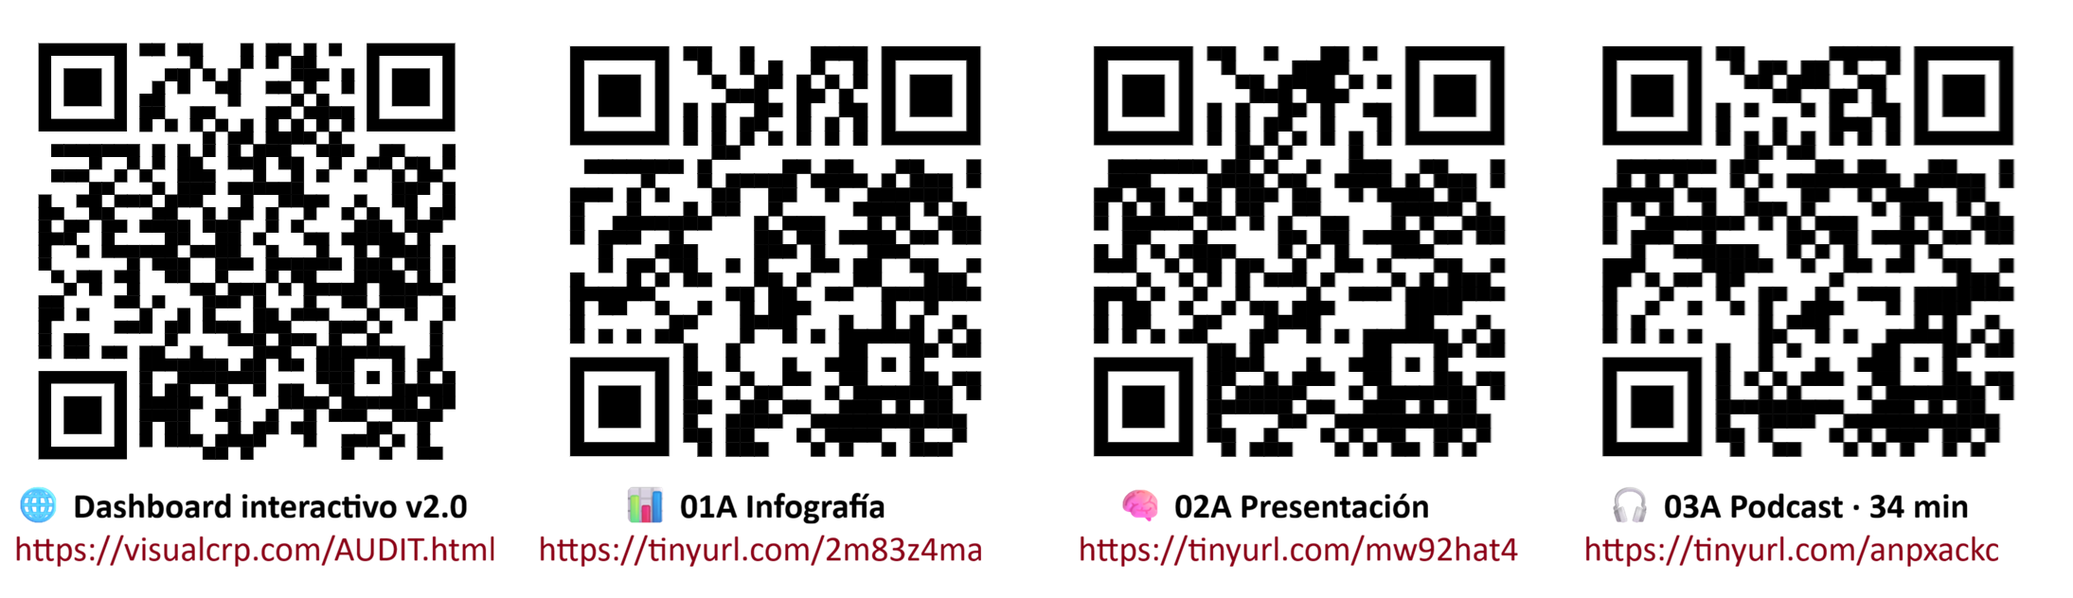
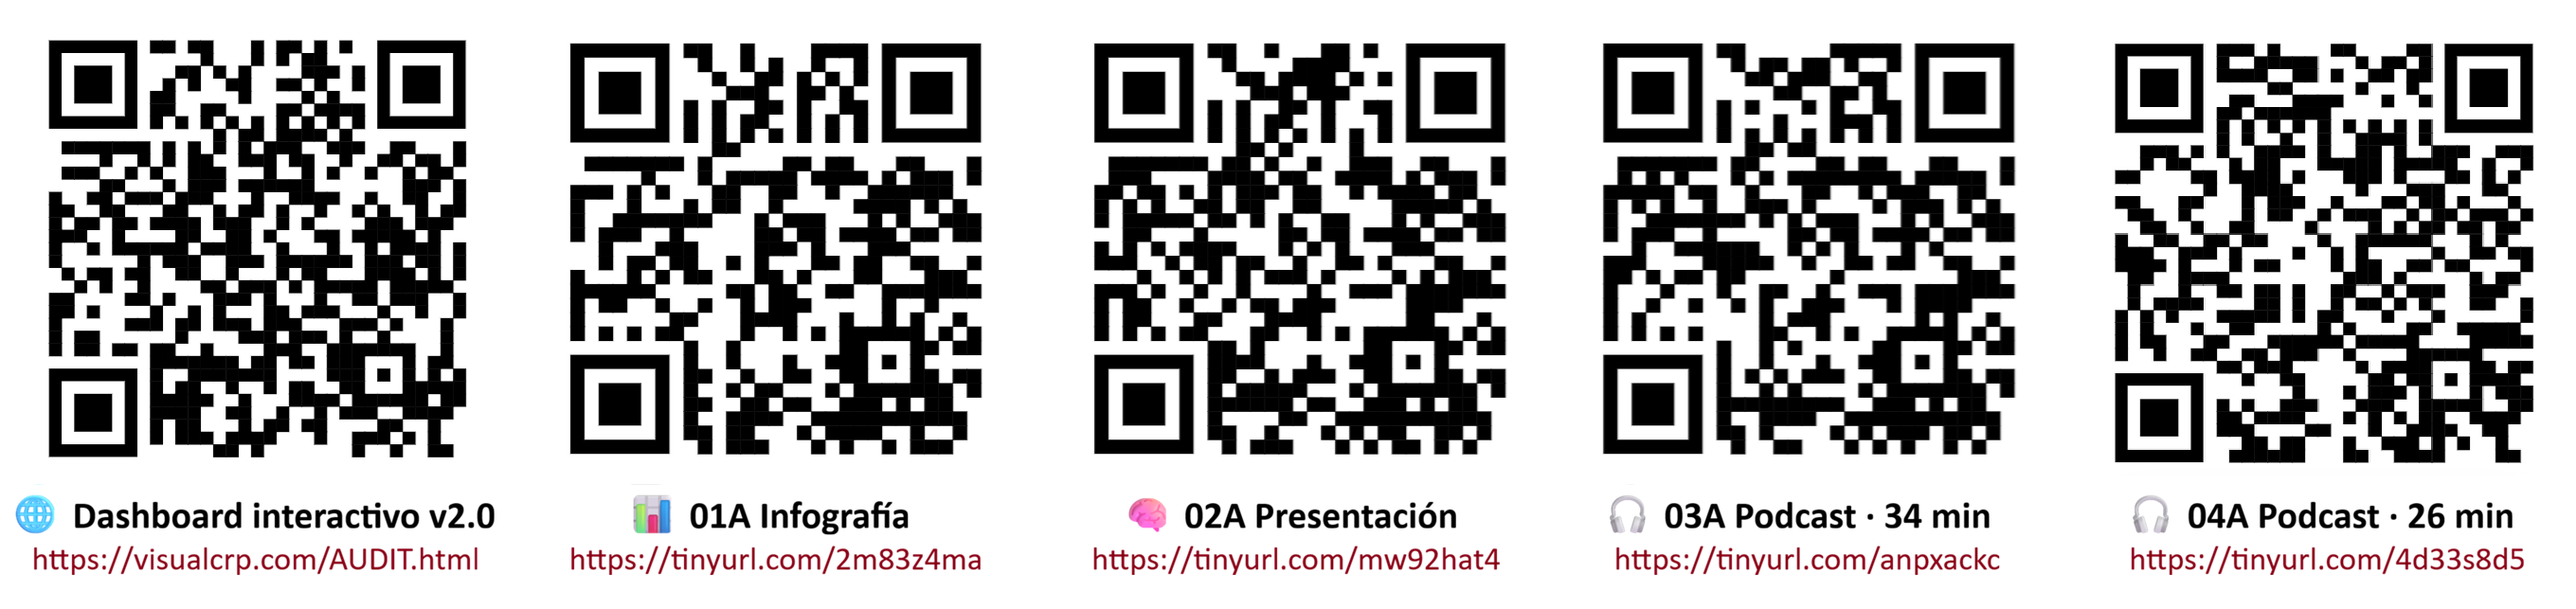
Add files via upload

diff --git a/AUDIT.html b/AUDIT.html
@@ -879,17 +879,26 @@ html.dark small           { color: #6a7a9a; }
     <div class="sources-title"><span class="es">Acceso directo al ecosistema</span><span class="en">Direct access to the ecosystem</span></div>
     <div class="sources-subtitle"><span class="es">Escanea el código QR o haz clic en los enlaces para acceder a los productos de la auditoría.</span><span class="en">Scan the QR code or click the links to access the audit products.</span></div>
 
-    <!-- Imagen QR única con los 4 códigos -->
+    <!-- Imagen QR con los 4 códigos activos -->
     <div style="text-align:center; margin:16px 0;">
       <img src="QR.png" alt="QR - Dashboard, Infografía, Presentación y Podcast" style="max-width:100%; height:auto; max-height:300px; border:1px solid var(--rule); border-radius:8px;"/>
     </div>
 
-    <!-- Enlaces directos (con iconos) -->
+    <!-- 6 artefactos en 3 pares: Infografías · Presentaciones · Podcasts -->
     <ul class="sources-list" style="margin-top:12px;">
       <li><strong>🌐</strong> <a href="https://visualcrp.com/AUDIT.html" target="_blank">Dashboard interactivo v2.0</a></li>
-      <li><strong>📊</strong> <a href="https://tinyurl.com/2m83z4ma" target="_blank">01A Infografía</a></li>
-      <li><strong>🧠</strong> <a href="https://tinyurl.com/mw92hat4" target="_blank">02A Presentación</a></li>
-      <li><strong>🎧</strong> <a href="https://tinyurl.com/anpxackc" target="_blank">03A Podcast · 34 min</a></li>
+
+      <!-- Infografías -->
+      <li><strong>📊</strong> <a href="https://tinyurl.com/2m83z4ma" target="_blank">01A <span class="es">Infografía</span><span class="en">Infographic</span></a></li>
+      <li><strong>📊</strong> <span style="color:var(--muted);">01B <span class="es">Infografía v2</span><span class="en">Infographic v2</span> &nbsp;<span style="font-size:.72rem; background:var(--gold); color:var(--bg); padding:1px 7px; border-radius:3px; font-weight:600; letter-spacing:.04em;"><span class="es">Próximamente</span><span class="en">Coming soon</span></span></span></li>
+
+      <!-- Presentaciones -->
+      <li><strong>🧠</strong> <a href="https://tinyurl.com/mw92hat4" target="_blank">02A <span class="es">Presentación PDF</span><span class="en">PDF Presentation</span></a></li>
+      <li><strong>🧠</strong> <span style="color:var(--muted);">02B <span class="es">Presentación PDF v2</span><span class="en">PDF Presentation v2</span> &nbsp;<span style="font-size:.72rem; background:var(--gold); color:var(--bg); padding:1px 7px; border-radius:3px; font-weight:600; letter-spacing:.04em;"><span class="es">Próximamente</span><span class="en">Coming soon</span></span></span></li>
+
+      <!-- Podcasts -->
+      <li><strong>🎧</strong> <a href="https://tinyurl.com/anpxackc" target="_blank">03A <span class="es">Podcast · 34 min</span><span class="en">Podcast · 34 min</span></a></li>
+      <li><strong>🎧</strong> <a href="https://tinyurl.com/4d33s8d5" target="_blank">04A <span class="es">Podcast · 26 min</span><span class="en">Podcast · 26 min</span></a></li>
     </ul>
   </div>
 
